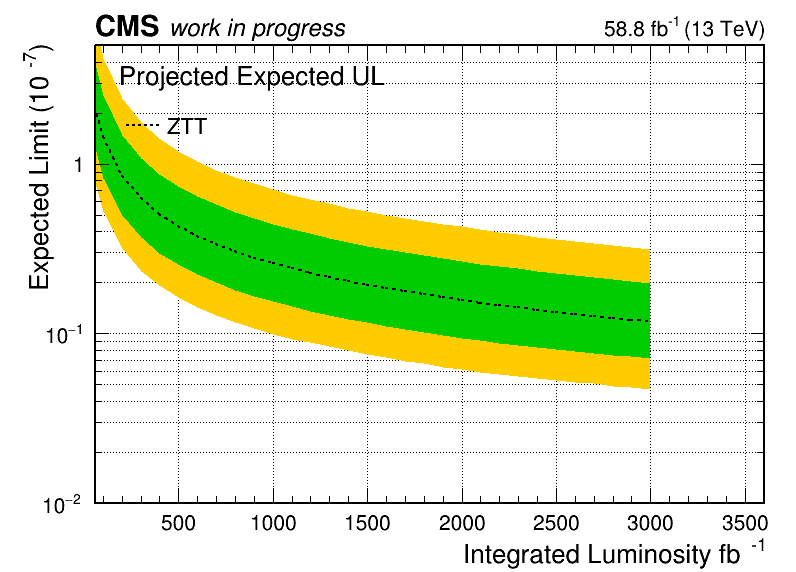
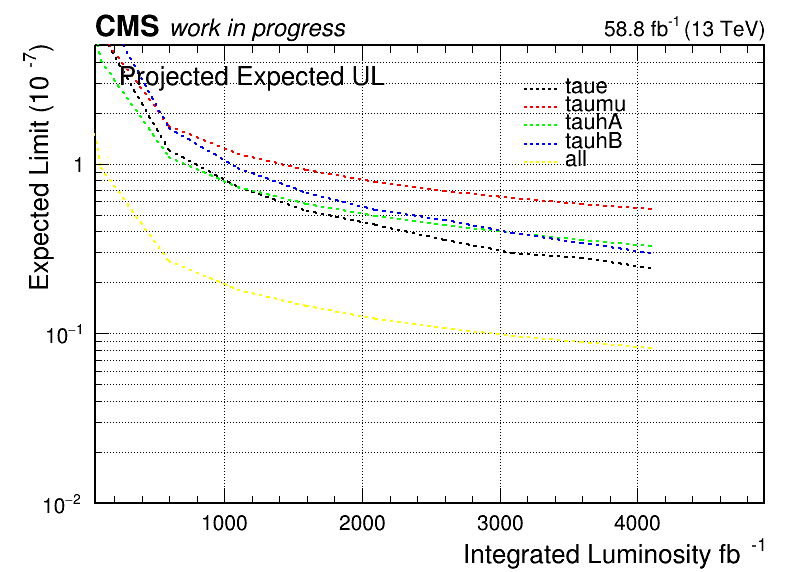
BDT fits

diff --git a/makeYield/readLimits.py b/makeYield/readLimits.py
@@ -44,7 +44,7 @@ if(args.category=="HF"):
         lumi = np.insert(lumi, 0 , 97.7)
 
 if(args.category=="ZTT"):
-        lumi = np.round(np.arange(100,3050,100), 0)
+        lumi = np.round(np.arange(100,4500,500), 0)
         lumi = np.insert(lumi, 0 , 59.8)
 
 if(args.category=="Combo"):
@@ -63,33 +63,48 @@ def executeDataCards_onCondor(lumi,categories,Whether_Hybrid):
                         
                     lu = lumi[lu_no]
                     print('Luminosity: ', lu)
-                        
-                    if(Whether_Hybrid):
-                            
-                            print("Median")
-                            command_run = "combineTool.py -M HybridNew --LHCmode LHC-limits  -n %s -d %s --rMin 0 --rMax 50 --cl 0.90 -t 10 --expectedFromGrid 0.5 --job-mode condor --sub-opts='+JobFlavour=\"workday\"'  --task-name HybridTest%s " % (str(lu)+categories[cat],categories[cat]+"/datacards_modified/dc_"+str(lu)+".txt",str(lu)+categories[cat])
-                            print("Run:   ", command_run)
-                            os.system(command_run)
-                            
-#                            print("Running Sigma -2")
-#                            command_run = "combineTool.py -M HybridNew --LHCmode LHC-limits  -n %s -d %s --rMin 0 --rMax 50 --cl 0.90 -t 10 --expectedFromGrid 0.025 --job-mode condor --sub-opts='+JobFlavour=\"workday\"'  --task-name HybridTest%s " % (str(lu)+categories[cat],categories[cat]+"/datacards_modified/dc_"+str(lu)+".txt",str(lu)+categories[cat])
-#                            os.system(command_run)
-#                            print("Running Sigma -1")
-#                            command_run = "combineTool.py -M HybridNew --LHCmode LHC-limits  -n %s -d %s --rMin 0 --rMax 50 --cl 0.90 -t 10 --expectedFromGrid 0.16 --job-mode condor --sub-opts='+JobFlavour=\"workday\"'  --task-name HybridTest%s " % (str(lu)+categories[cat],categories[cat]+"/datacards_modified/dc_"+str(lu)+".txt",str(lu)+categories[cat])
-#                            os.system(command_run)
-#                            print("Running Sigma +1")
-#                            command_run = "combineTool.py -M HybridNew --LHCmode LHC-limits  -n %s -d %s --rMin 0 --rMax 50 --cl 0.90 -t 10 --expectedFromGrid 0.84 --job-mode condor --sub-opts='+JobFlavour=\"workday\"'  --task-name HybridTest%s " % (str(lu)+categories[cat],categories[cat]+"/datacards_modified/dc_"+str(lu)+".txt",str(lu)+categories[cat])
-#                            os.system(command_run)
-#                            print("Running Sigma +2")
-#                            command_run = "combineTool.py -M HybridNew --LHCmode LHC-limits  -n %s -d %s --rMin 0 --rMax 50 --cl 0.90 -t 10 --expectedFromGrid 0.975 --job-mode condor --sub-opts='+JobFlavour=\"workday\"'  --task-name HybridTest%s " % (str(lu)+categories[cat],categories[cat]+"/datacards_modified/dc_"+str(lu)+".txt",str(lu)+categories[cat])
-#                            os.system(command_run)
-                            
-                    else:
-                            
-                            command_run = "combineTool.py -M AsymptoticLimits --run blind  --cl 0.90 -n %s -d %s  --job-mode condor --sub-opts='+JobFlavour=\"workday\"'  --task-name HybridTest%s " % (str(lu)+categories[cat],categories[cat]+"/datacards_modified/dc_"+str(lu)+".txt",str(lu)+categories[cat])
-
-                            print("Run:   ", command_run)
-                            os.system(command_run)
+                    
+                    subcat = []
+                    
+                    if(args.category=="W"):
+                            subcat = ["W"]
+                    if(args.category=="HF"):
+                            subcat = ["HF"]
+                    if(args.category=="ZTT"):
+                            subcat = ['taue','taumu','tauhA','tauhB','all']
+                    if(args.category=="Combo"):
+                            subcat = ["Combo"]
+                    
+                    Cat_No_sub = len(subcat)
+                    
+                    for cat_sub in range(Cat_No_sub):
+                    
+                            if(Whether_Hybrid):
+                                    
+                                    print("Median")
+                                    command_run = "combineTool.py -M HybridNew --LHCmode LHC-limits  -n %s -d %s --rMin 0 --rMax 50 --cl 0.90 -t 10 --expectedFromGrid 0.5 --job-mode condor --sub-opts='+JobFlavour=\"workday\"'  --task-name HybridTest%s " % (str(lu)+"_"+categories[cat]+"_"+subcat[cat_sub],categories[cat]+"/"+subcat[cat_sub]+"/datacards_modified/dc_"+str(lu)+".txt",str(lu)+"_"+categories[cat]+"_"+subcat[cat_sub])
+                                    print("Run:   ", command_run)
+                                    os.system(command_run)
+                                    
+        #                            print("Running Sigma -2")
+        #                            command_run = "combineTool.py -M HybridNew --LHCmode LHC-limits  -n %s -d %s --rMin 0 --rMax 50 --cl 0.90 -t 10 --expectedFromGrid 0.025 --job-mode condor --sub-opts='+JobFlavour=\"workday\"'  --task-name HybridTest%s " % (str(lu)+categories[cat],categories[cat]+"/datacards_modified/dc_"+str(lu)+".txt",str(lu)+categories[cat])
+        #                            os.system(command_run)
+        #                            print("Running Sigma -1")
+        #                            command_run = "combineTool.py -M HybridNew --LHCmode LHC-limits  -n %s -d %s --rMin 0 --rMax 50 --cl 0.90 -t 10 --expectedFromGrid 0.16 --job-mode condor --sub-opts='+JobFlavour=\"workday\"'  --task-name HybridTest%s " % (str(lu)+categories[cat],categories[cat]+"/datacards_modified/dc_"+str(lu)+".txt",str(lu)+categories[cat])
+        #                            os.system(command_run)
+        #                            print("Running Sigma +1")
+        #                            command_run = "combineTool.py -M HybridNew --LHCmode LHC-limits  -n %s -d %s --rMin 0 --rMax 50 --cl 0.90 -t 10 --expectedFromGrid 0.84 --job-mode condor --sub-opts='+JobFlavour=\"workday\"'  --task-name HybridTest%s " % (str(lu)+categories[cat],categories[cat]+"/datacards_modified/dc_"+str(lu)+".txt",str(lu)+categories[cat])
+        #                            os.system(command_run)
+        #                            print("Running Sigma +2")
+        #                            command_run = "combineTool.py -M HybridNew --LHCmode LHC-limits  -n %s -d %s --rMin 0 --rMax 50 --cl 0.90 -t 10 --expectedFromGrid 0.975 --job-mode condor --sub-opts='+JobFlavour=\"workday\"'  --task-name HybridTest%s " % (str(lu)+categories[cat],categories[cat]+"/datacards_modified/dc_"+str(lu)+".txt",str(lu)+categories[cat])
+        #                            os.system(command_run)
+                                    
+                            else:
+                                    
+                                    command_run = "combineTool.py -M AsymptoticLimits --run blind  --cl 0.90 -n %s -d %s  --job-mode condor --sub-opts='+JobFlavour=\"workday\"'  --task-name Asymptotic%s " % (str(lu)+"_"+categories[cat]+"_"+subcat[cat_sub],categories[cat]+"/"+subcat[cat_sub]+"/datacards_modified/dc_"+str(lu)+".txt",str(lu)+"_"+categories[cat]+"_"+subcat[cat_sub])
+        
+                                    print("Run:   ", command_run)
+                                    os.system(command_run)
             
 
 # GET limits from root file
@@ -111,61 +126,82 @@ def plotUpperLimits(lumi,categories,Whether_Hybrid):
     N = len(lumi)
     Cat_No = len(categories)
     
+    WhetherMultipleBroadCategories = False
+    if (Cat_No>1):
+            WhetherMultipleBroadCategories = True
+    
     label=[None] * Cat_No
     
+    subcat = []
+    subcat_label = []
     for cat in range(Cat_No):
             if categories[cat]=='HF':
                     label[cat] = 'Heavy Flavor'
+                    subcat = ["HF"]
+                    subcat_label = ["HF"]
             if categories[cat]=='ZTT':
                     label[cat] = 'ZTT'
+                    subcat = ['taue','taumu','tauhA','tauhB','all']
+                    subcat_label = ['taue','taumu','tauhA','tauhB','all']
             if categories[cat]=='W':
                     label[cat] = 'W'
+                    subcat = ["W"]
+                    subcat_label = ["W"]
     
-    yellow=[None] * Cat_No
-    green=[None] * Cat_No
-    median=[None] * Cat_No
+    Cat_No_sub = len(subcat)
+    
+    WhetherMultipleSmallCategories = False
+    if (Cat_No_sub>1):
+            WhetherMultipleSmallCategories = True
+    
+    yellow=[[None] * Cat_No_sub for _ in range(Cat_No)]
+    green=[[None] * Cat_No_sub for _ in range(Cat_No)]
+    median=[[None] * Cat_No_sub for _ in range(Cat_No)]
     
     for cat in range(Cat_No):
     
-            yellow[cat] = TGraph(2*N)   
-            green[cat] = TGraph(2*N)  
-            median[cat] = TGraph(N)  
-            
-            text_limits=open("TextLimits.txt","w")
-            
-            if(Whether_Hybrid):
-                    for i in range(N):
-                        file_name1 = "higgsCombine"+str(lumi[i])+categories[cat]+".HybridNew.mH120.123456.quant0.025.root"
-                        limit1 = getLimits(file_name1)
-                        file_name2 = "higgsCombine"+str(lumi[i])+categories[cat]+".HybridNew.mH120.123456.quant0.160.root"
-                        limit2 = getLimits(file_name2)
-                        file_name3 = "higgsCombine"+str(lumi[i])+categories[cat]+".HybridNew.mH120.123456.quant0.500.root"
-                        limit3 = getLimits(file_name3)
-                        file_name4 = "higgsCombine"+str(lumi[i])+categories[cat]+".HybridNew.mH120.123456.quant0.840.root"
-                        limit4 = getLimits(file_name4)
-                        file_name5 = "higgsCombine"+str(lumi[i])+categories[cat]+".HybridNew.mH120.123456.quant0.975.root"
-                        limit5 = getLimits(file_name5)
-                        
-                        yellow.SetPoint( 2*N-1-i, lumi[i], limit1[2]) # - 2 sigma
-                        green[cat].SetPoint(  2*N-1-i, lumi[i], limit2[2]) # - 1 sigma
-                        median[cat].SetPoint(    i,    lumi[i], limit3[2]) #    median
-                        green[cat].SetPoint(     i,    lumi[i], limit4[2]) # + 1 sigma
-                        yellow[cat].SetPoint(    i,    lumi[i], limit5[2]) # + 2 sigma
-                        
-                        text_limits.write("bdt %.2f     median[cat] exp %.2f\n"%(lumi[i],limit3[2]))
-            
-            else:
-                    for i in range(N):
-                        file_name1 = "higgsCombine"+str(lumi[i])+categories[cat]+".AsymptoticLimits.mH120.root"
-                        limit1 = getLimits(file_name1)
-                        
-                        yellow[cat].SetPoint( 2*N-1-i, lumi[i], limit1[0]) # - 2 sigma
-                        green[cat].SetPoint(  2*N-1-i, lumi[i], limit1[1]) # - 1 sigma
-                        median[cat].SetPoint(    i,    lumi[i], limit1[2]) #    median
-                        green[cat].SetPoint(     i,    lumi[i], limit1[3]) # + 1 sigma
-                        yellow[cat].SetPoint(    i,    lumi[i], limit1[4]) # + 2 sigma
-                        
-                        text_limits.write("bdt %.2f     median[cat] exp %.2f\n"%(lumi[i],limit1[2]))
+            for cat_sub in range(Cat_No_sub):
+                    
+                    yellow[cat][cat_sub] = TGraph(2*N)   
+                    green[cat][cat_sub] = TGraph(2*N)  
+                    median[cat][cat_sub] = TGraph(N)  
+                    
+                    text_limits=open("TextLimits.txt","w")
+                    
+                    
+                    if(Whether_Hybrid):
+                            for i in range(N):
+                                file_name1 = "higgsCombine"+str(lumi[i])+"_"+categories[cat]+"_"+subcat[cat_sub]+".HybridNew.mH120.123456.quant0.025.root"
+                                limit1 = getLimits(file_name1)
+                                file_name2 = "higgsCombine"+str(lumi[i])+"_"+categories[cat]+"_"+subcat[cat_sub]+".HybridNew.mH120.123456.quant0.160.root"
+                                limit2 = getLimits(file_name2)
+                                file_name3 = "higgsCombine"+str(lumi[i])+"_"+categories[cat]+"_"+subcat[cat_sub]+".HybridNew.mH120.123456.quant0.500.root"
+                                limit3 = getLimits(file_name3)
+                                file_name4 = "higgsCombine"+str(lumi[i])+"_"+categories[cat]+"_"+subcat[cat_sub]+".HybridNew.mH120.123456.quant0.840.root"
+                                limit4 = getLimits(file_name4)
+                                file_name5 = "higgsCombine"+str(lumi[i])+"_"+categories[cat]+"_"+subcat[cat_sub]+".HybridNew.mH120.123456.quant0.975.root"
+                                limit5 = getLimits(file_name5)
+                                
+                                yellow[cat][cat_sub].SetPoint( 2*N-1-i, lumi[i], limit1[2]) # - 2 sigma
+                                green[cat][cat_sub].SetPoint(  2*N-1-i, lumi[i], limit2[2]) # - 1 sigma
+                                median[cat][cat_sub].SetPoint(    i,    lumi[i], limit3[2]) #    median
+                                green[cat][cat_sub].SetPoint(     i,    lumi[i], limit4[2]) # + 1 sigma
+                                yellow[cat][cat_sub].SetPoint(    i,    lumi[i], limit5[2]) # + 2 sigma
+                                
+                                text_limits.write("bdt %.2f     median[cat] exp %.2f\n"%(lumi[i],limit3[2]))
+                    
+                    else:
+                            for i in range(N):
+                                file_name1 = "higgsCombine"+str(lumi[i])+"_"+categories[cat]+"_"+subcat[cat_sub]+".AsymptoticLimits.mH120.root"
+                                limit1 = getLimits(file_name1)
+                                
+                                yellow[cat][cat_sub].SetPoint( 2*N-1-i, lumi[i], limit1[0]) # - 2 sigma
+                                green[cat][cat_sub].SetPoint(  2*N-1-i, lumi[i], limit1[1]) # - 1 sigma
+                                median[cat][cat_sub].SetPoint(    i,    lumi[i], limit1[2]) #    median
+                                green[cat][cat_sub].SetPoint(     i,    lumi[i], limit1[3]) # + 1 sigma
+                                yellow[cat][cat_sub].SetPoint(    i,    lumi[i], limit1[4]) # + 2 sigma
+                                
+                                text_limits.write("bdt %.2f     median[cat] exp %.2f\n"%(lumi[i],limit1[2]))
 
     W = 800
     H  = 600
@@ -214,22 +250,24 @@ def plotUpperLimits(lumi,categories,Whether_Hybrid):
     frame.GetXaxis().SetLimits(min(lumi) ,max(lumi)*1.2)
 
 
-    for cat in range(Cat_No):
-            yellow[cat].SetFillColor(ROOT.kOrange)
-            yellow[cat].SetLineColor(ROOT.kOrange)
-            yellow[cat].SetFillStyle(1001)
-            yellow[cat].Draw('F')
-         
-            green[cat].SetFillColor(ROOT.kGreen+1)
-            green[cat].SetLineColor(ROOT.kGreen+1)
-            green[cat].SetFillStyle(1001)
-            green[cat].Draw('Fsame')
-         
-            median[cat].SetLineColor(1)
-            median[cat].SetLineWidth(2)
-            median[cat].SetLineStyle(2)
-            median[cat].Draw('Lsame')
-            median[cat].Draw()
+    #for cat in range(Cat_No):
+    if((not WhetherMultipleBroadCategories) and WhetherMultipleSmallCategories):
+            for cat_sub in range(Cat_No_sub):
+                    #yellow[cat][cat_sub].SetFillColor(ROOT.kOrange)
+                    #yellow[cat][cat_sub].SetLineColor(ROOT.kOrange)
+                    #yellow[cat][cat_sub].SetFillStyle(1001)
+                    #yellow[cat][cat_sub].Draw('F')
+                 
+                    #green[cat][cat_sub].SetFillColor(ROOT.kGreen+1)
+                    #green[cat][cat_sub].SetLineColor(ROOT.kGreen+1)
+                    #green[cat][cat_sub].SetFillStyle(1001)
+                    #green[cat][cat_sub].Draw('Fsame')
+                 
+                    median[cat][cat_sub].SetLineColor(cat_sub+1)
+                    median[cat][cat_sub].SetLineWidth(2)
+                    median[cat][cat_sub].SetLineStyle(2)
+                    median[cat][cat_sub].Draw('Lsame')
+                    median[cat][cat_sub].Draw()
  
 #    CMS_lumi.CMS_lumi(c,13,11)
     ROOT.gPad.SetTicks(1,1)
@@ -237,7 +275,7 @@ def plotUpperLimits(lumi,categories,Whether_Hybrid):
     ROOT.gPad.Update()
     frame.Draw('sameaxis')
  
-    x1 = 0.15
+    x1 = 0.65
     x2 = x1 + 0.24
     y2 = 0.86
     y1 = 0.70
@@ -246,8 +284,9 @@ def plotUpperLimits(lumi,categories,Whether_Hybrid):
     legend.SetBorderSize(0)
     legend.SetTextSize(0.041)
     legend.SetTextFont(42)
-    for cat in range(Cat_No):
-            legend.AddEntry(median[cat], label[cat],'L')
+    if((not WhetherMultipleBroadCategories) and WhetherMultipleSmallCategories):
+            for cat_sub in range(Cat_No_sub):
+                    legend.AddEntry(median[0][cat_sub], subcat_label[cat_sub],'L')
     
 #    legend.AddEntry(median[cat], "HybridNew CL_{s} expected upper limit",'L')
 #    legend.AddEntry(green[cat], "#pm 1 std. deviation",'f')
@@ -273,6 +312,13 @@ def plotUpperLimits(lumi,categories,Whether_Hybrid):
     else:
             c.SaveAs("Limit_scan.png")
     c.Close()
+    
+    
+    
+    
+    #Makesubplpots separately
+    
+    
     
 
         

diff --git a/makeYield/ZTT/makeCards.py b/makeYield/ZTT/makeCards.py
@@ -98,9 +98,9 @@ class makeCards:
                 
                 self.bdt_cv.setRange("BDT_Fit_Range", BDT_Score_Min, 1.0);
                 
-                self.a = RooRealVar("a", "a", 1.0, -10.0, 10.0)
+                self.a = RooRealVar("a", "a", 1.0, 0.0, 10.0)
                 self.b = RooRealVar("b", "b", 1.0, -10.0, 10.0)
-                self.c = RooRealVar("c", "c", 1.0, -100.0, 10.0)
+                self.c = RooRealVar("c", "c", 1.0, -10.0, 10.0)
                 
                 #quadratic = RooFormulaVar("quadratic", "a + b*self.bdt_cv + c*self.bdt_cv*self.bdt_cv", RooArgList(a, b, c, self.bdt_cv))
                 #expModel = RooGenericPdf("expModel", "exp(quadratic)", RooArgList(quadratic)) #Exponential of the quadratic polynomial
@@ -108,7 +108,7 @@ class makeCards:
                 self.quadratic = RooFormulaVar("quadratic", "a + b*bdt_cv + c*bdt_cv*bdt_cv", RooArgList(self.a, self.b, self.c, self.bdt_cv))
                 self.expModel = RooGenericPdf("expModel", "exp(quadratic)", RooArgList(self.quadratic)) #Exponential of the quadratic polynomial
                 
-                self.BDTNorm = RooRealVar("BDTNorm", "BDTNorm", 500.0, 0.1, 50000)
+                self.BDTNorm = RooRealVar("BDTNorm", "BDTNorm", 500.0, 0.1, 5000000)
                 self.BDT_distribution = RooAddPdf("BDT_distribution", "BDT_distribution",RooArgList(self.expModel), RooArgList(self.BDTNorm))
                 #BDT_distribution = RooAddPdf("BDT_distribution", "BDT_distribution",RooArgList(quadratic), RooArgList(BDTNorm))
                 
@@ -119,8 +119,6 @@ class makeCards:
                 
                 
                 # For fitting BDT Output in Signal
-                
-                BDT_Score_Min=-0.4
                 
                 MCSelector = RooFormulaVar('MCSelector', 'MCSelector', phivetoes+omegavetoes+' isMC !=0 & (isMC == 211 | isMC == 210231 | isMC == 210232 | isMC == 210233 ) & (tripletMass>=%s & tripletMass<=%s) ' %(fit_range_lo,fit_range_hi) , RooArgList(variables))
                 
@@ -393,7 +391,7 @@ if __name__ == "__main__":
         ROOT.gROOT.SetBatch(True)
         
         datafile = "Combine_Tree_ztau3mutau.root"
-        #categories = ['taumu']
+        #categories = ['all']
         categories = ['taue','taumu','tauhA','tauhB','all']
         #categories = ['combined']
         
@@ -445,8 +443,8 @@ if __name__ == "__main__":
                         BDTFit_Cat.MakeLumiScanCards(lumi,categ,analyzed_lumi)
                 
                 
-        #executeDataCards_onCondor(lumi,categories,False,bdt_points)
-        ReadAndCopyMinimumBDTCard(lumi,categories,False,bdt_points)
+        executeDataCards_onCondor(lumi,categories,False,bdt_points)
+        #ReadAndCopyMinimumBDTCard(lumi,categories,False,bdt_points)
 
         
         
